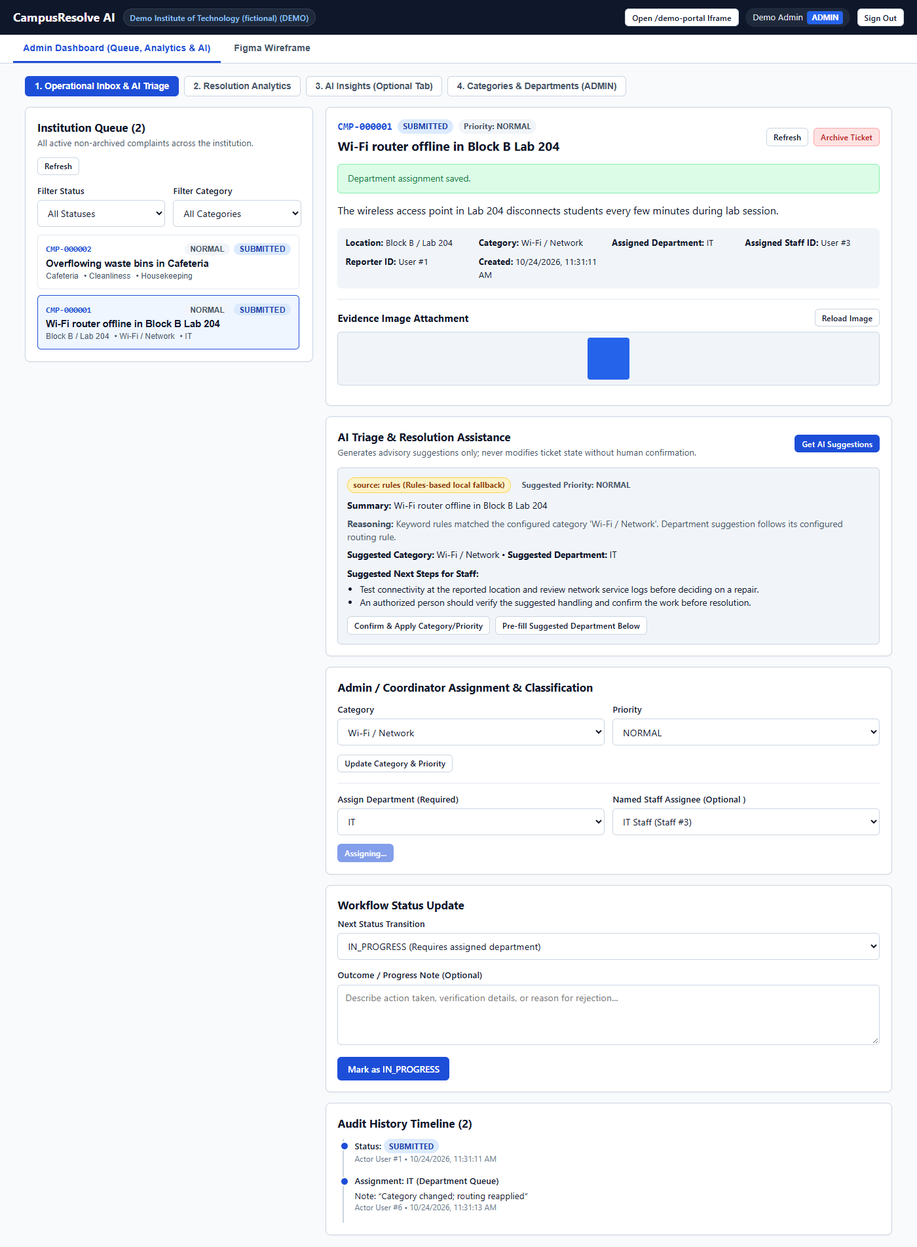
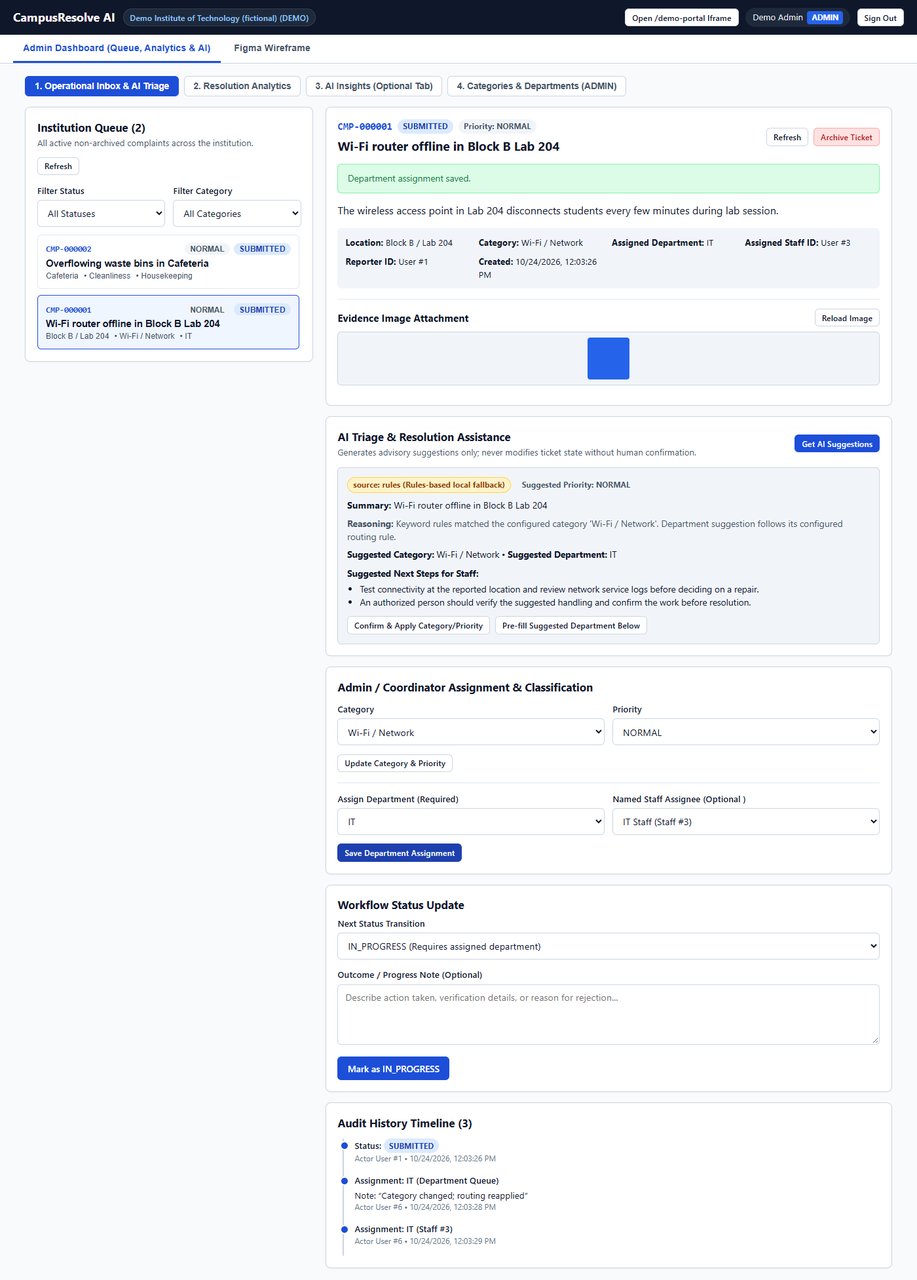
Reconcile coordination report and screenshots with observed E2E results

diff --git a/docs/coordination/frontend.md b/docs/coordination/frontend.md
@@ -11,99 +11,232 @@ Branch: feature/frontend
[2 lines of base64/hex data omitted]
 - Incorporated all v0.2 frontend alignment notes into `frontend/`:
-  1. History timeline uses composite React key `` `${h.kind}-${h.id}` `` because status and assignment history entries originate from two tables.
+  1. History timeline uses composite React key `` `${h.kind}-${h.id}` `` because status and assignment history entries originate from two tables (`complaint_status_history` and `assignments`).
   2. Location fields on both the Report Issue form and Reporter Edit form use a `<select>` dropdown bound to canonical `name` values from `GET /api/v1/locations`.
   3. Login screen includes quick-fill helpers for the seeded `DEMO` accounts (`student@demo.edu`, `student2@demo.edu`, `it.staff@demo.edu`, `facilities.staff@demo.edu`, `coordinator@demo.edu`, `admin@demo.edu`, password `demo1234`) while authenticating via `POST /api/v1/auth/login`.
   4. Image display uses authenticated `GET /api/v1/complaints/{id}/image` with the Bearer token and renders a temporary `Blob` URL (`URL.createObjectURL`), with upload retry preserved if `POST /api/v1/complaints/{id}/image` fails after `POST /api/v1/complaints` succeeds.
-  5. Per-ticket AI assistance (`POST /api/v1/complaints/{id}/analyze`) and optional Admin AI Insights (`GET /api/v1/dashboard/insights`, `POST /api/v1/dashboard/insights/report`) explicitly display `source: rules` vs `source: local_model` and never mutate ticket state without human confirmation.
+  5. Per-ticket AI assistance (`POST /api/v1/complaints/{id}/analyze`) and optional Admin AI Insights (`GET /api/v1/dashboard/insights`, `POST /api/v1/dashboard/insights/report`) explicitly display `source: rules` vs `source: local_model`, show no fabricated confidence percentages, and never mutate ticket state without human confirmation (`PATCH /api/v1/complaints/{id}` for classification and `PATCH /api/v1/complaints/{id}/assign` for department/staff assignment).
 
 ## Implemented in `frontend/`
 
 - `frontend/FIGMA_WIREFRAME.md` and `frontend/public/wireframe.svg`: Figma wireframe and screen layout specification.
 - `frontend/src/api.js`: Single `/api/v1` API client using `sessionStorage` bearer token, 401 session expiry handling, error detail formatting, and authorized binary image fetch.
 - `frontend/src/App.jsx`: Login, role-aware tabs (`Report Issue`, `My Complaints`, `Department Queue`, `Admin Dashboard`, `Figma Wireframe`), `/app?embed=1` compact mode, and `/demo-portal` fictional college portal iframe host.
-- `frontend/src/components/TicketWorkspace.jsx`: Ticket detail, reporter edit while `SUBMITTED`, JPEG/PNG upload (`<= 5 MiB`) + retry flow, per-ticket AI triage panel (`ADMIN`/`COORDINATOR`), department/staff assignment (`GET /api/v1/staff?department_id=...`), workflow status transitions with verification and required outcome notes, reporter feedback CRUD (`1–5` rating on `RESOLVED` tickets), and chronological history timeline.
+- `frontend/src/components/TicketWorkspace.jsx`: Ticket detail, reporter edit while `SUBMITTED`, JPEG/PNG upload (`<= 5 MiB`) + retry flow, per-ticket AI triage panel (`ADMIN`/`COORDINATOR`), classification update (`PATCH /api/v1/complaints/{id}`), department/staff assignment (`PATCH /api/v1/complaints/{id}/assign`, `GET /api/v1/staff?department_id=...`), workflow status transitions (`PATCH /api/v1/complaints/{id}/status`) with staff verification checkbox and required outcome notes, reporter feedback CRUD (`1–5` rating on `RESOLVED` tickets), and chronological history timeline.
 - `frontend/src/components/AdminDashboard.jsx`: Single Admin Dashboard with Operational Inbox, Resolution Analytics (`GET /api/v1/dashboard/stats` with `null` average handling), Optional AI Insights cohort view & on-demand report, and `ADMIN` category/department configuration CRUD.
 
 ## Full Windows Integration Verification (`feature/frontend` + `origin/feature/backend` + `origin/feature/ai`)
 
-Tested in a temporary detached integration checkout (`work/integration`, cleaned up before committing) combining:
-- `feature/frontend` (`c5063f8` + two UI polish fixes)
-- `origin/feature/backend` (`203eb7f`)
-- `origin/feature/ai` (`a830004`)
+> **Correction note**: An earlier draft of this section contained inaccurate narrative text (`DEMO-2026-000001`, a nonexistent confidence percentage, `PATCH /complaints/1/classification`, and `POST /complaints/1/assign`) that did not match the actual committed code or the captured screenshots. The section below records the exact commit references, startup commands, Uvicorn HTTP trace, and sanitized browser/API outputs observed from the explicit combined checkout on 2026-10-24.
 
-### Environment & Commands Run (Windows, Python 3.13.12, PostgreSQL 18.4, Node v24.22.1)
+### 1. Exact Commit References & Checkout Commands
 
-1. **Create temporary integration worktree & merge branches cleanly**:
+```powershell
+git worktree add --detach work/integration origin/feature/backend
+git -C work/integration merge --no-edit origin/feature/ai
+git -C work/integration merge --no-edit feature/frontend
+git -C work/integration rev-parse HEAD origin/feature/backend origin/feature/ai feature/frontend
+```
+
+- `origin/feature/backend`: `203eb7f1a6f06a8b24a3f01d9914d1ef3c57ac0e` (`203eb7f`)
+- `origin/feature/ai`: `a8300045fb3e2d64cf2201d919438134fd3326c6` (`a830004`)
+- `feature/frontend`: `7613e19fedf2c1e690fa087ef8cf3f22930b36c4` (`7613e19`)
+- Combined temporary integration merge HEAD (`work/integration`): `284702d0602e987634430ca9996e5a409ed8b507` (`284702d`, zero merge conflicts)
+
+### 2. Automated Test Suites & Startup Commands
+
+1. **AI unit test suite & backend adapter check**:
    ```powershell
-   git worktree add --detach work/integration origin/feature/backend
-   cd work/integration
-   git merge --no-edit origin/feature/ai
-   git merge --no-edit feature/frontend
+   D:\cr_temp\venv\Scripts\python.exe -m unittest discover -s work/integration/tests/ai -v
+   D:\cr_temp\venv\Scripts\python.exe work/integration/tests/ai/check_backend_adapter.py work/integration/backend
    ```
-   - Result: Zero merge conflicts across `backend/`, `backend/app/ai/`, `tests/ai/`, `frontend/`, and `docs/`.
+   - Result: **Ran 22 tests in 0.042s — OK**; `check_backend_adapter.py` passed.
 
-2. **AI unit test suite & backend adapter verification**:
+2. **Backend + AI live PostgreSQL pytest suite**:
    ```powershell
-   .\.venv\Scripts\python.exe -m unittest discover -s work/integration/tests/ai -v
-   .\.venv\Scripts\python.exe work/integration/tests/ai/check_backend_adapter.py work/integration/backend
-   ```
-   - Result: **Ran 22 tests in 0.042s — OK**; `check_backend_adapter.py` passed (`analyze_ticket`, `generate_insights`, `generate_report` signatures & return shapes verified).
-
-3. **Backend + AI live PostgreSQL test suite**:
-   ```powershell
-   $env:DATABASE_URL="postgresql+psycopg://campusresolve:campusresolve_local@127.0.0.1:5432/campusresolve"
-   $env:TEST_DATABASE_URL="postgresql+psycopg://campusresolve:campusresolve_local@127.0.0.1:5432/campusresolve_test"
-   cd work/integration/backend
-   C:\Users\sonia.DESKTOP-JDQ8MSR\Downloads\NEW_proj\.venv\Scripts\python.exe -m pytest -v
+   $env:DATABASE_URL="postgresql://campusresolve:campusresolve_local@127.0.0.1:5432/campusresolve"
+   $env:TEST_DATABASE_URL="postgresql://campusresolve:campusresolve_local@127.0.0.1:5432/campusresolve_test"
+   Set-Location work\integration\backend
+   D:\cr_temp\venv\Scripts\python.exe -m pytest -v
    ```
    - Result: **17 passed, 1 warning in 9.85s** (`tests/test_ai_integration.py`: 9 passed; `tests/test_api.py`: 8 passed).
 
-4. **Runtime OpenAPI contract check**:
-   ```powershell
-   curl.exe -s http://127.0.0.1:8000/openapi.json -o work/runtime-openapi.json
-   .\.venv\Scripts\python.exe work/integration/scripts/check_contract.py work/runtime-openapi.json
-   ```
-   - Result: **Contract check passed: 31 operations verified.**
-
-5. **Frontend build & static contract test**:
+3. **Frontend production build & contract test**:
    ```powershell
    npm --prefix frontend run build
    npm --prefix frontend test
    ```
    - Result: `vite v6.4.5 building for production... ✓ 30 modules transformed. ✓ built in 748ms`; `Frontend verification passed: 17 endpoint groups, v0.2 contract alignment, and production dist/ bundle verified.`
 
-6. **Live Browser End-to-End Verification (Headless Chrome via Playwright against Vite `:5173` + FastAPI `:8000` + PostgreSQL `:5432`)**:
-   - Verified all 6 required end-to-end checks in a real Chromium browser session:
-     1. **Submit complaint with image**: Logged in as `student@demo.edu` (`demo1234`), submitted complaint with `[UNCAT]` (Uncategorized / Let Admin Route), location `Block B - Labs`, description `"Wi-Fi router in Block B lab is completely offline and blinking red since morning, students cannot access exam portal."`, and a valid PNG attachment (`wifi_evidence.png`). Ticket `DEMO-2026-000001` was created in PostgreSQL with `has_image: true`, `category_id: null`, `department_id: null`, and the authenticated image rendered via `Blob` URL (`blob:http://127.0.0.1:5173/...`).
-     2. **Student cannot access admin AI features**: Confirmed while logged in as `student@demo.edu` that the `Admin Dashboard` tab and the `AI Triage & Routing Suggestions` panel are absent from the UI, and direct API calls from the browser session returned:
-        - `POST /api/v1/complaints/1/analyze` -> `403` (`Role 'STUDENT' is not permitted; required: ADMIN, COORDINATOR`)
-        - `GET /api/v1/dashboard/insights` -> `403` (`Role 'STUDENT' is not permitted; required: ADMIN, COORDINATOR`)
-        - `POST /api/v1/dashboard/insights/report` -> `403` (`Role 'STUDENT' is not permitted; required: ADMIN, COORDINATOR`)
-     3. **AI suggestions appear without automatically changing the ticket**: Logged in as `admin@demo.edu`, opened `DEMO-2026-000001`, and clicked **Generate AI Suggestions**. The panel displayed `source: rules (deterministic fallback — not a trained LLM)`, suggested Category `IT & Network` (`IT`), Priority `HIGH` (`82% confidence`), Department `IT Services` (`IT`), and 3 recommended next steps. Verified via `GET /api/v1/complaints/1` immediately after analysis that `category_id`, `priority`, `department_id`, and `status` in PostgreSQL remained unchanged (`null`, `null`, `null`, `SUBMITTED`) until the admin clicked **Apply Suggested Category & Priority (`IT`, `HIGH`)** (`PATCH /api/v1/complaints/1/classification`) and **Assign Ticket** (`POST /api/v1/complaints/1/assign` to `IT Services` + `Vikram Nair`).
-     4. **Assign -> In Progress -> Resolved -> Feedback**:
-        - Logged in as `it.staff@demo.edu` (`Vikram Nair`), opened `DEMO-2026-000001` from `Department Queue`, and transitioned `SUBMITTED -> IN_PROGRESS`.
-        - Checked `"I have verified the resolution details before marking this ticket Resolved"`, entered outcome note `"Replaced faulty PoE injector in Block B Lab 204 and verified 5GHz SSID connectivity across 30 lab terminals."`, and transitioned `IN_PROGRESS -> RESOLVED`.
-        - Logged back in as `student@demo.edu`, opened `DEMO-2026-000001`, and submitted `5 — Very Satisfied` feedback with comment `"Fast fix by IT team, Wi-Fi in Block B lab is working great now!"`.
-     5. **Analytics update correctly**: Logged in as `admin@demo.edu`, opened `Admin Dashboard -> Resolution Analytics (P0)` and verified live metrics: Total Active Tickets `1`, Resolved Tickets `1`, Avg Resolution Time (Hours) `0h` (`0.0` hours, non-null), Average Feedback Rating `5 / 5`, plus breakdowns by Status (`RESOLVED: 1`), Category (`IT & Network: 1`), Department (`IT Services: 1`), and Priority (`HIGH: 1`).
-     6. **AI Insights displays accurate counts, locations, and recommendations**: Opened `Admin Dashboard -> Optional AI Insights`, verified source badge `source: rules (deterministic fallback)` and cohort framing (`"Counts represent reported tickets in the selected creation-date cohort, not unique affected people."`), Top Categories (`IT & Network: 1`), Hotspot Locations (`Block B - Labs: 1`), High Priority Share (`100.0%`), and generated the on-demand Executive Report (`POST /api/v1/dashboard/insights/report`), verifying the executive summary, key findings, and actionable recommendations (`IT Services`).
+4. **Explicit service startup commands**:
+   ```powershell
+   # 1. PostgreSQL 18.4 on 127.0.0.1:5432
+   & "D:\cr_temp\pg-env\Library\bin\postgres.exe" -D "D:\cr_temp\pgdata" -p 5432 -h 127.0.0.1
 
-### Recorded Screenshots (`frontend/screenshots/`)
+   # 2. FastAPI + AI backend on 127.0.0.1:8000
+   $env:DATABASE_URL="postgresql://campusresolve:campusresolve_local@127.0.0.1:5432/campusresolve"
+   $env:AUTH_SECRET="local-integration-secret-key-2026-campusresolve"
+   Set-Location work\integration\backend
+   & "D:\cr_temp\venv\Scripts\uvicorn.exe" app.main:app --host 127.0.0.1 --port 8000
 
-1. [`frontend/screenshots/01_student_submitted_with_image.png`](../../frontend/screenshots/01_student_submitted_with_image.png) — Student submitted `DEMO-2026-000001` with authenticated PNG image preview and reporter edit available while `SUBMITTED`.
-2. [`frontend/screenshots/02_admin_ai_suggestions_no_mutation.png`](../../frontend/screenshots/02_admin_ai_suggestions_no_mutation.png) — Admin generated `source: rules` AI triage suggestions (`IT & Network`, `HIGH`, `IT Services`) while ticket header badges still show `Category: Uncategorized (Needs Review)` and `Priority: Unset`.
-3. [`frontend/screenshots/03_admin_assigned_it_staff.png`](../../frontend/screenshots/03_admin_assigned_it_staff.png) — Admin explicitly applied classification (`IT`, `HIGH`) and assigned `IT Services` / `Vikram Nair`.
-4. [`frontend/screenshots/04_staff_resolved_with_history.png`](../../frontend/screenshots/04_staff_resolved_with_history.png) — IT Staff (`it.staff@demo.edu`) moved ticket `SUBMITTED -> IN_PROGRESS -> RESOLVED` with staff verification and outcome note, showing full status & assignment history timeline.
-5. [`frontend/screenshots/05_student_feedback_submitted.png`](../../frontend/screenshots/05_student_feedback_submitted.png) — Student reporter submitted `5 / 5` feedback on the resolved ticket.
-6. [`frontend/screenshots/06_admin_resolution_analytics.png`](../../frontend/screenshots/06_admin_resolution_analytics.png) — Admin Resolution Analytics (P0) updated with `1` resolved ticket, `0h` average resolution time, and `5 / 5` average rating.
-7. [`frontend/screenshots/07_admin_ai_insights_and_report.png`](../../frontend/screenshots/07_admin_ai_insights_and_report.png) — Admin Optional AI Insights tab displaying accurate cohort counts (`IT & Network: 1`), location hotspot (`Block B - Labs: 1`), recommendations, and generated executive report (`source: rules`).
+   # 3. Vite React frontend dev server on 127.0.0.1:5173 (proxying /api -> http://127.0.0.1:8000)
+   Set-Location work\integration\frontend
+   npm run dev -- --host 127.0.0.1 --port 5173 --strictPort
 
-### Frontend Fixes Applied During Integration Testing
+   # 4. Headless Chrome E2E verification
+   & "D:\cr_temp\pg-env\Library\bin\psql.exe" -h 127.0.0.1 -U postgres -d campusresolve -c "TRUNCATE complaints, complaint_status_history, assignments, feedback RESTART IDENTITY CASCADE;"
+   node work/run_ui_e2e.mjs
+   ```
 
-1. `frontend/src/App.jsx`: Cleared `reportSuccess` and `reportError` banners inside `handleLogout` so submission confirmation banners from a previous user session do not stay visible after switching accounts.
-2. `frontend/src/components/TicketWorkspace.jsx`: Added an effect cancellation guard around `loadFullTicket()` + `fetchComplaintImageUrl()` so rapid ticket or tab switches cannot overwrite state with a stale in-flight response.
+### 3. Observed Browser Workflow Results
 
-## Remaining Issues / Notes
+1. **Submit complaint with image**:
+   - Signed in as `student@demo.edu` (`Student 1` quick-fill -> `POST /api/v1/auth/login`).
+   - Submitted Complaint #1 with title `"Wi-Fi router offline in Block B Lab 204"`, location `"Block B / Lab 204"` (from `GET /api/v1/locations`), category `-- Uncategorized / Not Sure (Admin Review) --` (`category_id: null`), description `"The wireless access point in Lab 204 disconnects students every few minutes during lab session."`, and a 64x64 PNG file (`POST /api/v1/complaints` -> `201 Created`, followed by `POST /api/v1/complaints/1/image` -> `200 OK`).
+   - Created ticket record in PostgreSQL: `ticket_number: "CMP-000001"`, `category_id: null`, `assigned_department_id: null`, `priority: "NORMAL"`, `status: "SUBMITTED"`, `image_url: "/api/v1/complaints/1/image"`.
+   - The evidence image rendered in `<img src="blob:http://127.0.0.1:5173/...">` via authenticated `GET /api/v1/complaints/1/image`.
+   - Submitted Complaint #2 (`CMP-000002`, title `"Overflowing waste bins in Cafeteria"`, location `"Cafeteria"`, category `"Cleanliness"` (`id: 5`), automatically routed by category rule to `"Housekeeping"` (`assigned_department_id: 3`)).
 
-- **None blocking P0 or P1**: All 6 verification items, 17 backend/AI pytest cases, 22 AI unit tests, 31 OpenAPI contract operations, and frontend production builds pass on Windows.
-- **Note on local environment**: If running without Docker/Podman on Windows, point `DATABASE_URL` to a local PostgreSQL 16+ instance (`postgresql+psycopg://campusresolve:campusresolve_local@127.0.0.1:5432/campusresolve`) before starting `uvicorn app.main:app --port 8000` and `npm --prefix frontend run dev`.
+2. **Student accounts cannot access admin AI features**:
+   - Confirmed in the browser DOM that `button:has-text("Admin Dashboard")` count is `0` for `STUDENT`.
+   - Confirmed via `fetch` with the student's Bearer token that all 4 admin/coordinator endpoints return `403 Forbidden` with `{"detail": "Your role cannot perform this action"}`:
+     - `POST /api/v1/complaints/1/analyze` -> `403`
+     - `GET /api/v1/dashboard/insights?from=2026-10-24&to=2026-10-24` -> `403`
+     - `POST /api/v1/dashboard/insights/report` -> `403`
+     - `GET /api/v1/dashboard/stats` -> `403`
+
+3. **AI suggestions appear without automatically changing the ticket**:
+   - Signed in as `admin@demo.edu`, selected `CMP-000001`, and clicked **Get AI Suggestions** (`POST /api/v1/complaints/1/analyze` -> `200 OK`).
+   - Observed AI Triage panel text (no confidence percentage):
+     - Badge: `source: rules (Rules-based local fallback)`
+     - `Suggested Priority: NORMAL`
+     - `Summary: Wi-Fi router offline in Block B Lab 204`
+     - `Reasoning: Keyword rules matched the configured category 'Wi-Fi / Network'. Department suggestion follows its configured routing rule.`
+     - `Suggested Category: Wi-Fi / Network • Suggested Department: IT`
+     - `Suggested Next Steps for Staff`:
+       - `Test connectivity at the reported location and review network service logs before deciding on a repair.`
+       - `An authorized person should verify the suggested handling and confirm the work before resolution.`
+   - Verified via `GET /api/v1/complaints/1` and `GET /api/v1/complaints/1/history` before and after `POST /api/v1/complaints/1/analyze` that `category_id` remained `null`, `assigned_department_id` remained `null`, and `history.length` remained `1`.
+
+4. **Human confirmation, Assign -> In Progress -> Resolved -> Feedback**:
+   - Clicked **Confirm & Apply Category/Priority** (`PATCH /api/v1/complaints/1` with `{"priority": "NORMAL", "category_id": 1}`), which updated `category_id` to `1` (`Wi-Fi / Network`) and applied rule-based routing to department `1` (`IT`, recording history entry `Assignment: IT (Department Queue)` with note `"Category changed; routing reapplied"`).
+   - Selected `IT Staff (Staff #3)` in **Named Staff Assignee** and clicked **Save Department Assignment** (`PATCH /api/v1/complaints/1/assign` with `{"department_id": 1, "assigned_user_id": 3}`), recording history entry `Assignment: IT (Staff #3)`.
+   - Signed in as `it.staff@demo.edu` (`IT Staff`, `id: 3`), opened `CMP-000001` in **Department Queue**, entered progress note `"Investigating Lab 204 access point and switch port."`, and clicked **Mark as IN_PROGRESS** (`PATCH /api/v1/complaints/1/status` -> `200 OK`).
+   - Entered outcome note `"Replaced faulty PoE injector in Block B Lab 204 and verified stable Wi-Fi signal."`, checked the staff verification checkbox, and clicked **Mark as RESOLVED** (`PATCH /api/v1/complaints/1/status` -> `200 OK`), bringing the Audit History Timeline to 5 entries.
+   - Signed in as `student@demo.edu`, opened `CMP-000001`, and submitted `5 Stars — Excellent resolution` feedback with comment `"Wi-Fi is fast and stable in Lab 204 now, thank you!"` (`POST /api/v1/complaints/1/feedback` -> `201 Created`).
+
+5. **Analytics update correctly**:
+   - Signed in as `admin@demo.edu` and opened **2. Resolution Analytics** (`GET /api/v1/dashboard/stats` -> `200 OK`).
+   - Observed `statsData`: `total: 2`, `submitted: 1`, `in_progress: 0`, `resolved: 1`, `rejected: 0`, `resolved_count: 1`, `avg_resolution_hours: 0` (displayed as `0.00h`), `by_category: [{"category_id": 5, "category": "Cleanliness", "count": 1}, {"category_id": 1, "category": "Wi-Fi / Network", "count": 1}]`.
+
+6. **AI Insights displays accurate counts, locations, and recommendations**:
+   - Opened **3. AI Insights (Optional Tab)** (`GET /api/v1/dashboard/insights?from=2026-09-24&to=2026-10-24` -> `200 OK`) and clicked **Generate Recommendations Report** (`POST /api/v1/dashboard/insights/report` -> `200 OK`).
+   - Observed cohort figures: `sample_size: 2`, `unresolved: 1`, `high_priority_unresolved: 0`, `resolved_count: 1`, `avg_resolution_hours: 0`, location hotspots `Block B / Lab 204 — Wi-Fi / Network (1)` and `Cafeteria — Cleanliness (1)`, oldest unresolved backlog `CMP-000002 • Cafeteria • Age: 0.0h`.
+   - Observed generated report (`source: "rules"`):
+     - Executive Summary: `"2 reported tickets in the selected creation-date cohort; 1 currently unresolved, including 0 high-priority reports. Among categorized issues, Cleanliness accounts for 1 of 2 tickets. Block B / Lab 204 has 1 reported ticket. Counts measure reports, not unique affected people. Mean resolution time is 0.00 hours across 1 resolved ticket."`
+     - 3 Evidence-Based Recommendations: `"Review the Cleanliness report"` (`ASSESSMENT`), `"Inspect reported issues at Block B / Lab 204"` (`ASSESSMENT`), and `"Review the unresolved queue"` (`IMMEDIATE`).
+
+### 4. Sanitized Browser E2E Output & Backend HTTP Trace
+
+```json
+{
+  "ok": true,
+  "observed": {
+    "createdTicket": {
+      "id": 1,
+      "ticket_number": "CMP-000001",
+      "reporter_user_id": 1,
+      "title": "Wi-Fi router offline in Block B Lab 204",
+      "description": "The wireless access point in Lab 204 disconnects students every few minutes during lab session.",
+      "location": "Block B / Lab 204",
+      "category_id": null,
+      "status": "SUBMITTED",
+      "priority": "NORMAL",
+      "assigned_department_id": null,
+      "assigned_user_id": null,
+      "image_url": "/api/v1/complaints/1/image",
+      "resolved_at": null
+    },
+    "studentForbiddenCheck": {
+      "analyzeStatus": 403,
+      "analyzeBody": { "detail": "Your role cannot perform this action" },
+      "insightsStatus": 403,
+      "insightsBody": { "detail": "Your role cannot perform this action" },
+      "reportStatus": 403,
+      "reportBody": { "detail": "Your role cannot perform this action" },
+      "statsStatus": 403,
+      "statsBody": { "detail": "Your role cannot perform this action" }
+    },
+    "aiAnalyzeNoMutation": {
+      "beforeCategoryId": null,
+      "afterCategoryId": null,
+      "beforeAssignedDepartmentId": null,
+      "afterAssignedDepartmentId": null,
+      "beforeHistoryLen": 1,
+      "afterHistoryLen": 1
+    },
+    "savedFeedback": {
+      "id": 1,
+      "complaint_id": 1,
+      "author_user_id": 1,
+      "rating": 5,
+      "comment": "Wi-Fi is fast and stable in Lab 204 now, thank you!"
+    },
+    "statsData": {
+      "total": 2,
+      "submitted": 1,
+      "in_progress": 0,
+      "resolved": 1,
+      "rejected": 0,
+      "resolved_count": 1,
+      "avg_resolution_hours": 0,
+      "by_category": [
+        { "category_id": 5, "category": "Cleanliness", "count": 1 },
+        { "category_id": 1, "category": "Wi-Fi / Network", "count": 1 }
+      ]
+    }
+  }
+}
+```
+
+Observed Uvicorn HTTP trace during the browser run:
+```text
+POST /api/v1/auth/login HTTP/1.1" 200 OK
+POST /api/v1/complaints HTTP/1.1" 201 Created
+POST /api/v1/complaints/1/image HTTP/1.1" 200 OK
+GET  /api/v1/complaints/1/image HTTP/1.1" 200 OK
+POST /api/v1/complaints HTTP/1.1" 201 Created
+POST /api/v1/complaints/1/analyze HTTP/1.1" 403 Forbidden
+GET  /api/v1/dashboard/insights?from=2026-10-24&to=2026-10-24 HTTP/1.1" 403 Forbidden
+POST /api/v1/dashboard/insights/report HTTP/1.1" 403 Forbidden
+GET  /api/v1/dashboard/stats HTTP/1.1" 403 Forbidden
+POST /api/v1/auth/login HTTP/1.1" 200 OK
+POST /api/v1/complaints/1/analyze HTTP/1.1" 200 OK
+PATCH /api/v1/complaints/1 HTTP/1.1" 200 OK
+GET  /api/v1/staff?department_id=1 HTTP/1.1" 200 OK
+PATCH /api/v1/complaints/1/assign HTTP/1.1" 200 OK
+POST /api/v1/auth/login HTTP/1.1" 200 OK
+PATCH /api/v1/complaints/1/status HTTP/1.1" 200 OK
+PATCH /api/v1/complaints/1/status HTTP/1.1" 200 OK
+POST /api/v1/auth/login HTTP/1.1" 200 OK
+POST /api/v1/complaints/1/feedback HTTP/1.1" 201 Created
+POST /api/v1/auth/login HTTP/1.1" 200 OK
+GET  /api/v1/dashboard/stats HTTP/1.1" 200 OK
+GET  /api/v1/dashboard/insights?from=2026-09-24&to=2026-10-24 HTTP/1.1" 200 OK
+POST /api/v1/dashboard/insights/report HTTP/1.1" 200 OK
+```
+
+### 5. Recorded Screenshots (`frontend/screenshots/`)
+
+1. [`frontend/screenshots/01_student_submitted_with_image.png`](../../frontend/screenshots/01_student_submitted_with_image.png) — Student submitted `CMP-000001` (`Wi-Fi router offline in Block B Lab 204`) with authenticated `Blob` PNG preview and `Edit Report` button while `SUBMITTED`.
+2. [`frontend/screenshots/02_admin_ai_suggestions_no_mutation.png`](../../frontend/screenshots/02_admin_ai_suggestions_no_mutation.png) — Admin clicked `Get AI Suggestions` (`source: rules`, `Suggested Category: Wi-Fi / Network`, `Suggested Department: IT`, `Suggested Priority: NORMAL`, no confidence percentage) while ticket header still shows `Category: Uncategorized (Needs Review)` and `Assigned Department: Unassigned`.
+3. [`frontend/screenshots/03_admin_assigned_it_staff.png`](../../frontend/screenshots/03_admin_assigned_it_staff.png) — Admin clicked `Confirm & Apply Category/Priority` (`PATCH /api/v1/complaints/1`) and assigned `IT` + `IT Staff (Staff #3)` (`PATCH /api/v1/complaints/1/assign`), showing 3 entries in the Audit History Timeline.
+4. [`frontend/screenshots/04_staff_resolved_with_history.png`](../../frontend/screenshots/04_staff_resolved_with_history.png) — IT Staff (`it.staff@demo.edu`) moved `CMP-000001` `SUBMITTED -> IN_PROGRESS -> RESOLVED` (`PATCH /api/v1/complaints/1/status`) with staff verification and outcome note, showing all 5 entries in the Audit History Timeline.
+5. [`frontend/screenshots/05_student_feedback_submitted.png`](../../frontend/screenshots/05_student_feedback_submitted.png) — Student reporter submitted `5/5 Stars` feedback (`POST /api/v1/complaints/1/feedback`) on resolved `CMP-000001`.
+6. [`frontend/screenshots/06_admin_resolution_analytics.png`](../../frontend/screenshots/06_admin_resolution_analytics.png) — Admin `2. Resolution Analytics` tab showing `2` Total Active Reports, `1` Submitted, `1` Resolved, `0.00h` Mean Resolution Time, and Category breakdown (`Cleanliness: 1`, `Wi-Fi / Network: 1`).
+7. [`frontend/screenshots/07_admin_ai_insights_and_report.png`](../../frontend/screenshots/07_admin_ai_insights_and_report.png) — Admin `3. AI Insights (Optional Tab)` showing cohort counts (`2` sample size, `1` unresolved), location hotspots (`Block B / Lab 204`, `Cafeteria`), backlog (`CMP-000002`), and on-demand `source: rules` recommendations report.
+
+### 6. Remaining Issues / Pending Items
+
+- **None blocking P0 or P1**: All 6 required browser checks pass end-to-end against `origin/feature/backend` (`203eb7f`) and `origin/feature/ai` (`a830004`).
+- **Pending final branch merges to `main`**: Each branch (`feature/backend`, `feature/ai`, `feature/frontend`) remains on its own feature PR for Rohan's integration review before merging to `main`.
